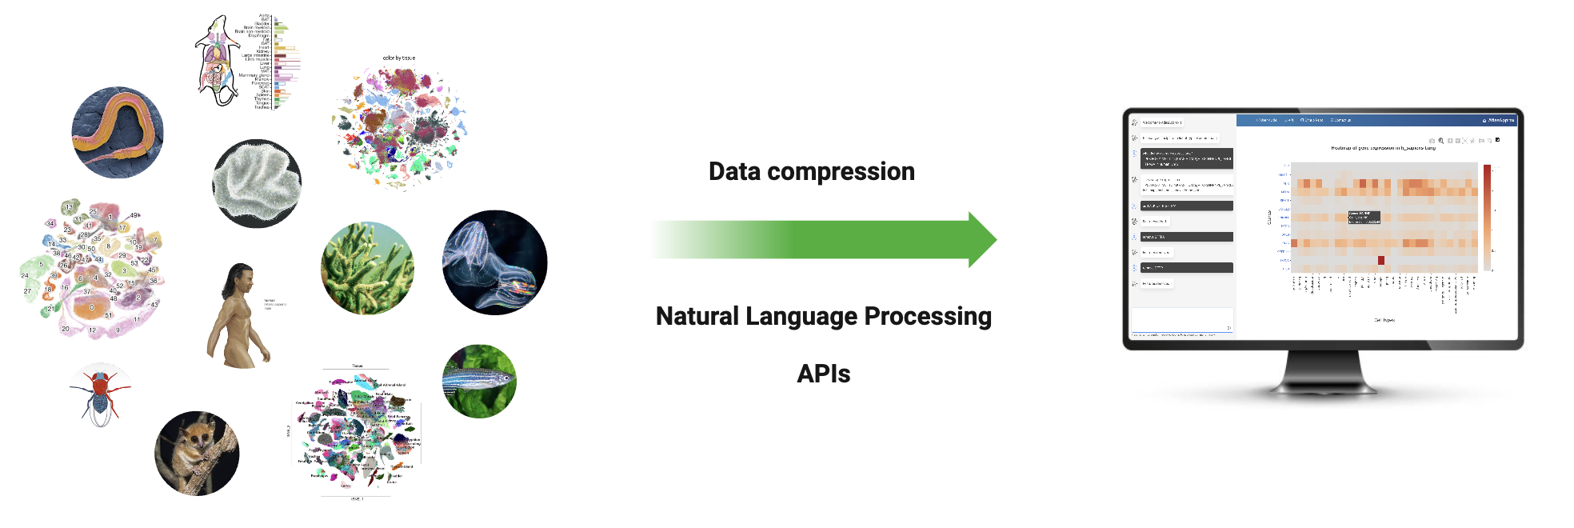
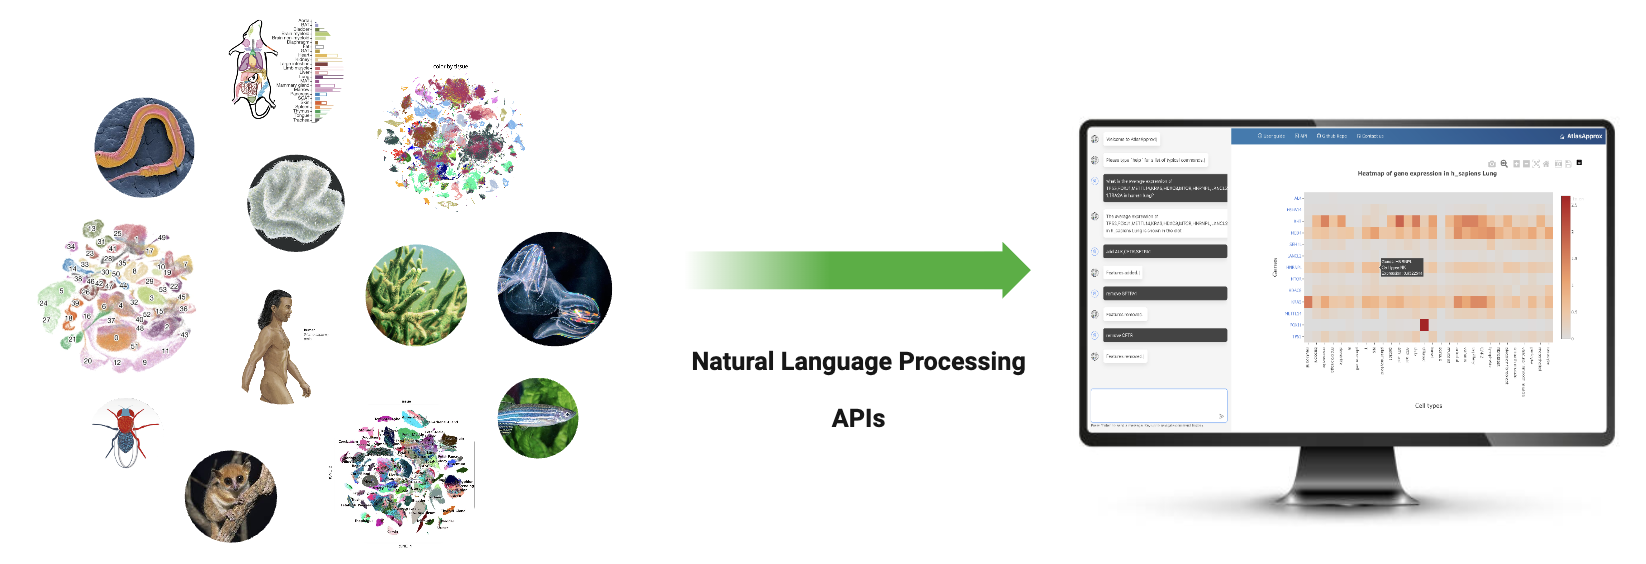
re structure bar chart in descending order, continue improving user guide

diff --git a/src/components/plots/OrganCellChart.js b/src/components/plots/OrganCellChart.js
@@ -27,6 +27,11 @@ const OrganCellChart = ({ apiCellOrgan, organName }) => {
               width: 1,
             },
         },
+        transforms: [{
+          type: 'sort',
+          target: nonZeroData.map(item => item.value),
+          order: 'ascending'
+        }]
     }];
 
     let layout = {

diff --git a/public/userGuide.md b/public/userGuide.md
@@ -1,11 +1,22 @@
-# Introduction 
- 
+# Welcome to AtlasApprox! 
 
-### About
+AtlasApprox is your gateway to a world of single-cell atlas data. As a dedicated platform, we curate and present a vast collection of cellular data, streamlining the exploration process for you. Here's what sets AtlasApprox apart:
 
-In the last decade, single cell omics have revolutionised biology and medicine, enabling researchers to gain biomedical insight with extreme detail and precision. Nonetheless, new researchers picking up single cell analysis are met with a high entry barrier: months of training in coding, data science, package installation, and so on, resulting is a dramatic slowdown of biomedical research. 
+### What Makes AtlasApprox Unique?
 
-AtlasApprox aims to democratise accessibility to single cell analysis by building a software environment that runs in the user's web browser and delivers biomedical insights within minutes without any requirement for programming literacy. The candidate will achieve this goal by encapsulating fundamental single cell analysis tools in a browser environment using web assembly (WASM) technologies and orchestrating them client-side in Python and JavaScript. Network analysis, high-dimentional data sciene, and deep learning will be combined as required.
+#### Diverse Organism 
+DataDive deep into a range of organisms, from Drosophila melanogaster to Homo sapiens. Explore a comprehensive view of cell types and their gene expressions at your fingertips.
+
+#### Interactive Visualizations
+Our dynamic visualizations, powered by Plotly.js, allow you to seamlessly navigate through heatmaps, dot plots, bar charts, and more.
+
+#### Intelligent Chatbot Assistance
+Have a query? Interact with our AI-driven chatbot that understands and responds to your questions, guiding you through the data exploration process.
+
+#### Zero Technical Barriers
+No setups. No installations. No code. Just open your browser and start exploring the vast world of single-cell data.
+
+Whether you're looking to compare gene expressions across different organs or want insights into specific cell types, AtlasApprox provides the tools and interface to make your exploration intuitive and insightful.
 
 ![about](./demo/about.png)
 
